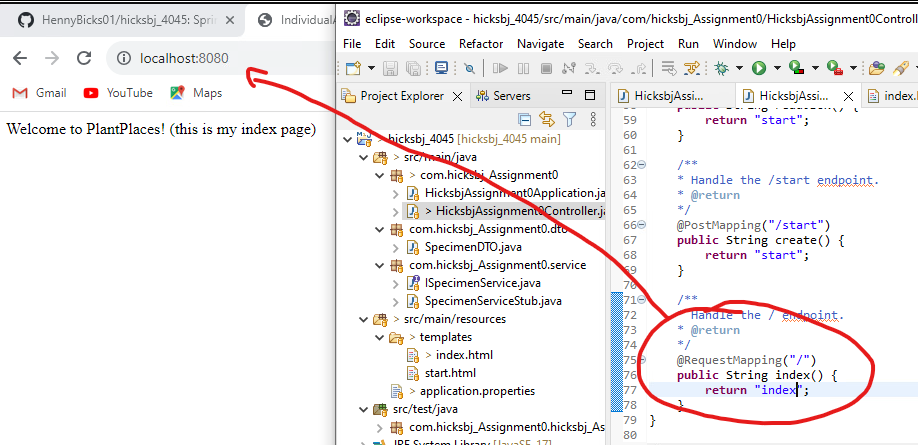
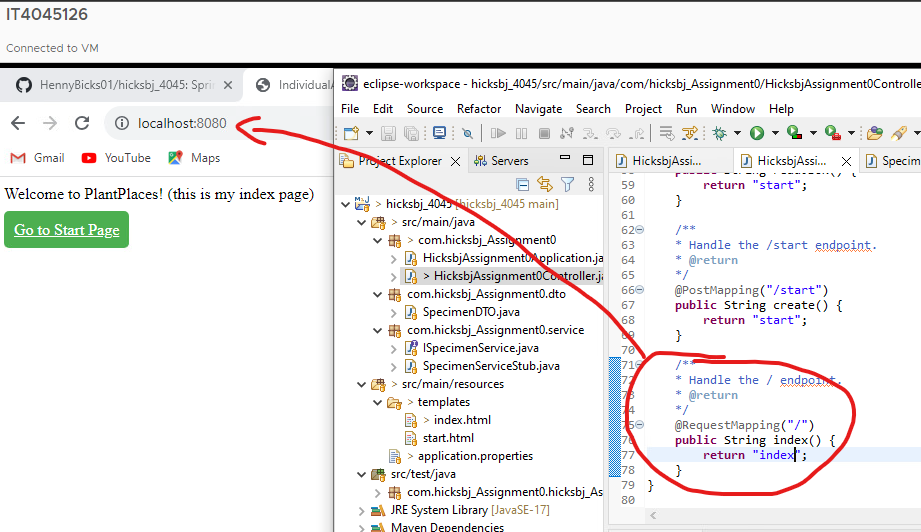
pics and button

Changed region(s): [[0.0, 0.0, 1.0, 1.0]]

diff --git a/src/main/resources/templates/index.html b/src/main/resources/templates/index.html
@@ -7,5 +7,8 @@
 <body>
 Welcome to PlantPlaces!
 (this is my index page)
+<br>
+<br>
+<a href="start" style="padding: 10px; text-decoration: none; background-color: #4CAF50; color: white; border-radius: 5px;">Go to Start Page</a>
 </body>
 </html>
